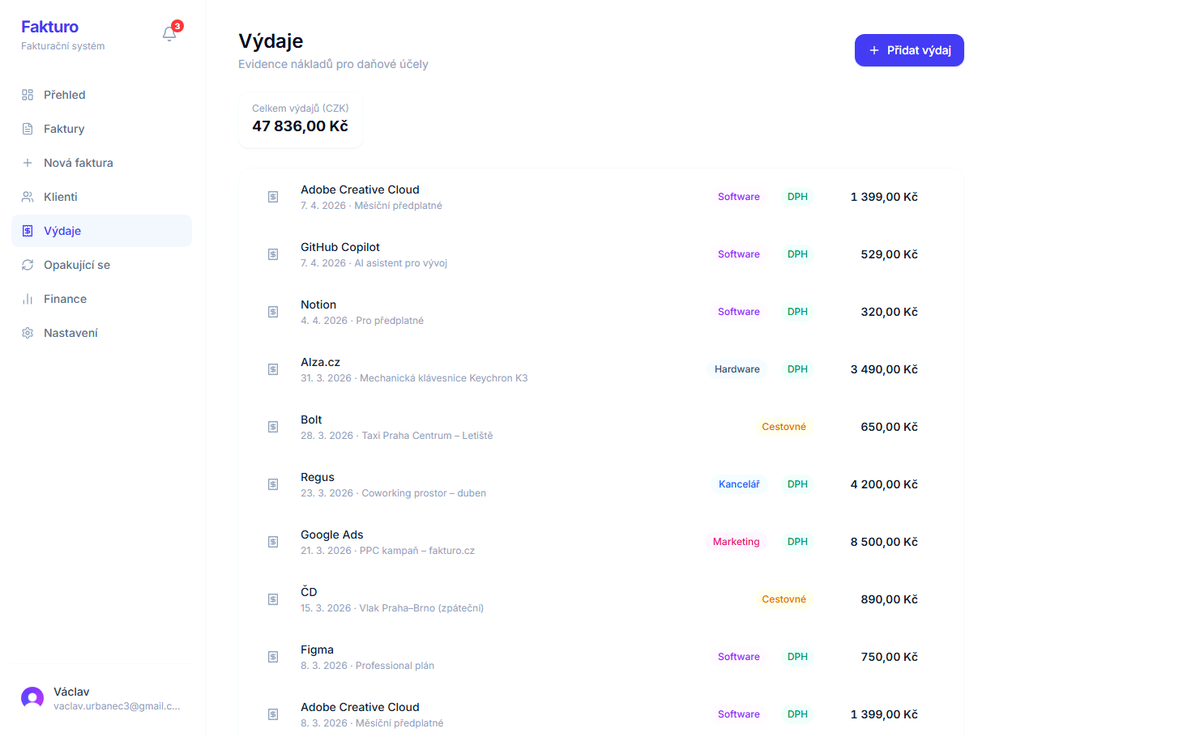
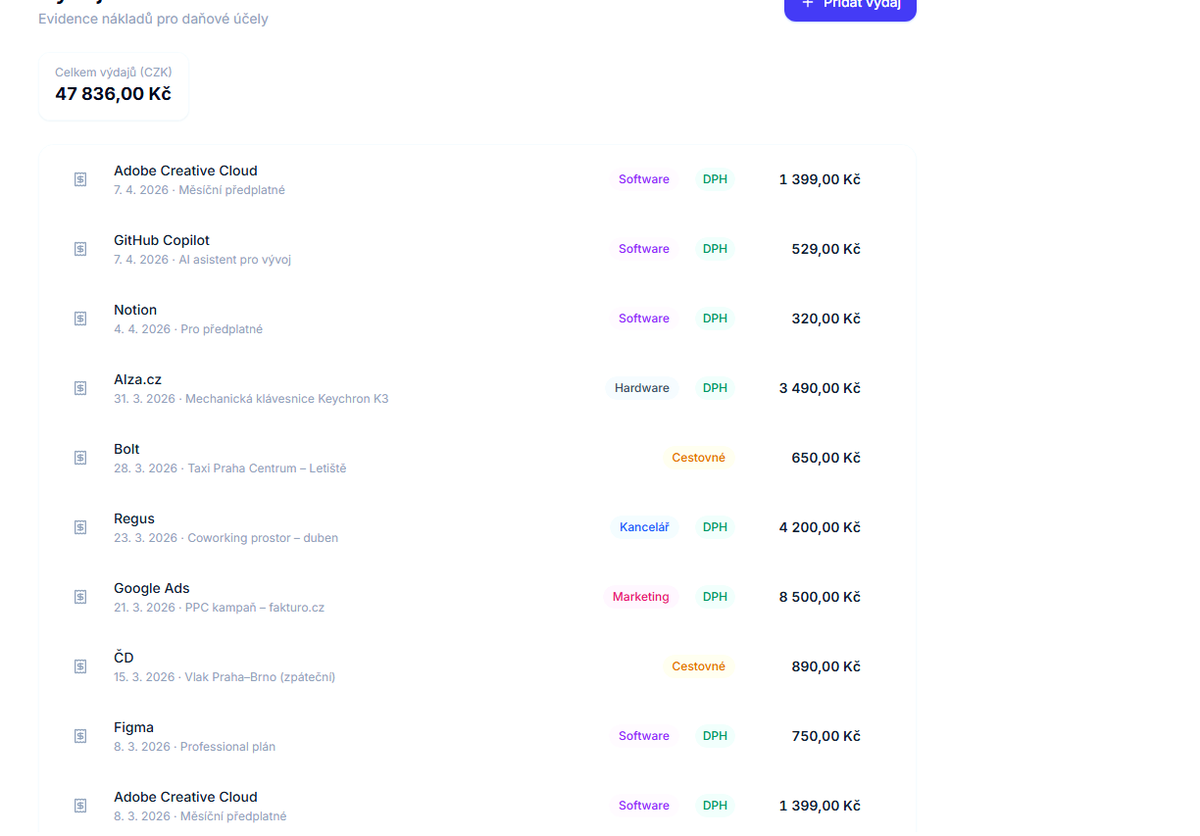
Add lightbox zoom + content-only screenshot crops
- Crop sidebar out of all screenshots (content area only, no sidebar)
- Add Lightbox component to FeatureShowcase — click any screenshot to zoom fullscreen, Escape/click outside to close
- Extract ScreenshotZoom component for hero + How it works sections
- Hover shows zoom cursor + "Klikni pro zvětšení" hint

diff --git a/src/components/FeatureShowcase.tsx b/src/components/FeatureShowcase.tsx
@@ -1,8 +1,8 @@
 'use client'
 
-import { useState } from 'react'
+import { useState, useEffect } from 'react'
 import Image from 'next/image'
-import { LayoutDashboard, FileText, BarChart2, Users, Receipt, RefreshCw, Settings } from 'lucide-react'
+import { LayoutDashboard, FileText, BarChart2, Users, Receipt, RefreshCw, Settings, X, ZoomIn } from 'lucide-react'
 import { cn } from '@/lib/utils'
 
 const features = [
@@ -42,7 +42,7 @@ const features = [
     id: 'expenses',
     icon: Receipt,
     title: 'Evidence výdajů',
-    desc: 'Zadejte výdaje kategorie podle kategorie — software, hardware, cestovné, marketing. Mějte přehled o tom, co vás stojí podnikání.',
+    desc: 'Zadejte výdaje podle kategorie — software, hardware, cestovné, marketing. Mějte přehled o tom, co vás stojí podnikání.',
     img: '/screenshots/expenses.png',
     color: 'amber',
   },
@@ -74,70 +74,151 @@ const colorMap: Record<string, { bg: string; text: string; ring: string; dot: st
   slate:  { bg: 'bg-slate-50',  text: 'text-slate-600',  ring: 'ring-slate-200',  dot: 'bg-slate-400'  },
 }
 
-export function FeatureShowcase() {
-  const [active, setActive] = useState('dashboard')
-  const current = features.find(f => f.id === active) ?? features[0]
-  const c = colorMap[current.color]
+function Lightbox({ src, title, onClose }: { src: string; title: string; onClose: () => void }) {
+  useEffect(() => {
+    const handler = (e: KeyboardEvent) => { if (e.key === 'Escape') onClose() }
+    document.addEventListener('keydown', handler)
+    document.body.style.overflow = 'hidden'
+    return () => {
+      document.removeEventListener('keydown', handler)
+      document.body.style.overflow = ''
+    }
+  }, [onClose])
 
   return (
-    <div className="grid lg:grid-cols-[340px_1fr] gap-8 items-start">
-      {/* Tab list */}
-      <div className="space-y-1">
-        {features.map(f => {
-          const isActive = f.id === active
-          const fc = colorMap[f.color]
-          const Icon = f.icon
-          return (
-            <button
-              key={f.id}
-              onClick={() => setActive(f.id)}
-              className={cn(
-                'w-full text-left flex items-center gap-3 px-4 py-3.5 rounded-xl transition-all',
-                isActive
-                  ? `${fc.bg} ring-1 ${fc.ring}`
-                  : 'hover:bg-slate-50 text-slate-500',
-              )}
-            >
-              <div className={cn('h-8 w-8 rounded-lg flex items-center justify-center shrink-0', isActive ? fc.bg : 'bg-slate-100')}>
-                <Icon className={cn('h-4 w-4', isActive ? fc.text : 'text-slate-400')} />
-              </div>
-              <div className="min-w-0">
-                <p className={cn('text-sm font-semibold leading-tight', isActive ? 'text-slate-900' : 'text-slate-600')}>{f.title}</p>
-                {isActive && (
-                  <p className="text-xs text-slate-400 mt-0.5 leading-relaxed line-clamp-2">{f.desc}</p>
-                )}
-              </div>
-              {isActive && <span className={cn('h-2 w-2 rounded-full shrink-0 ml-auto', fc.dot)} />}
-            </button>
-          )
-        })}
-      </div>
+    <div
+      className="fixed inset-0 z-[9999] flex items-center justify-center p-4 md:p-8"
+      onClick={onClose}
+    >
+      {/* Backdrop */}
+      <div className="absolute inset-0 bg-slate-900/80 backdrop-blur-sm" />
 
-      {/* Screenshot panel */}
-      <div className={cn(
-        'relative rounded-2xl overflow-hidden border shadow-2xl transition-all',
-        `ring-2 ${c.ring}`,
-      )}>
+      {/* Panel */}
+      <div
+        className="relative z-10 w-full max-w-6xl rounded-2xl overflow-hidden shadow-2xl ring-1 ring-white/10"
+        onClick={e => e.stopPropagation()}
+      >
         {/* Browser chrome */}
         <div className="bg-slate-800 flex items-center gap-2 px-4 py-2.5">
-          <span className="h-3 w-3 rounded-full bg-red-400" />
+          <button
+            onClick={onClose}
+            className="h-3 w-3 rounded-full bg-red-400 hover:bg-red-500 transition flex items-center justify-center"
+          />
           <span className="h-3 w-3 rounded-full bg-yellow-400" />
           <span className="h-3 w-3 rounded-full bg-emerald-400" />
           <div className="ml-3 flex-1 bg-slate-700 rounded-md h-5 flex items-center px-3">
             <span className="text-[10px] text-slate-400 font-mono">fakturo.vercel.app</span>
           </div>
+          <button onClick={onClose} className="ml-2 text-slate-400 hover:text-white transition">
+            <X className="h-4 w-4" />
+          </button>
         </div>
-        <div className="relative aspect-[1200/740] w-full">
+        <div className="relative w-full" style={{ aspectRatio: '1200/836' }}>
           <Image
-            key={current.img}
-            src={current.img}
-            alt={current.title}
+            src={src}
+            alt={title}
             fill
             className="object-cover object-top"
-            sizes="(max-width: 1024px) 100vw, 800px"
+            sizes="100vw"
+            priority
           />
         </div>
       </div>
     </div>
+  )
+}
+
+export function FeatureShowcase() {
+  const [active, setActive] = useState('dashboard')
+  const [lightbox, setLightbox] = useState<string | null>(null)
+  const current = features.find(f => f.id === active) ?? features[0]
+  const c = colorMap[current.color]
+
+  return (
+    <>
+      <div className="grid lg:grid-cols-[300px_1fr] gap-6 items-start">
+        {/* Tab list */}
+        <div className="space-y-1">
+          {features.map(f => {
+            const isActive = f.id === active
+            const fc = colorMap[f.color]
+            const Icon = f.icon
+            return (
+              <button
+                key={f.id}
+                onClick={() => setActive(f.id)}
+                className={cn(
+                  'w-full text-left flex items-center gap-3 px-4 py-3.5 rounded-xl transition-all',
+                  isActive
+                    ? `${fc.bg} ring-1 ${fc.ring}`
+                    : 'hover:bg-slate-50 text-slate-500',
+                )}
+              >
+                <div className={cn('h-8 w-8 rounded-lg flex items-center justify-center shrink-0', isActive ? fc.bg : 'bg-slate-100')}>
+                  <Icon className={cn('h-4 w-4', isActive ? fc.text : 'text-slate-400')} />
+                </div>
+                <div className="min-w-0">
+                  <p className={cn('text-sm font-semibold leading-tight', isActive ? 'text-slate-900' : 'text-slate-600')}>{f.title}</p>
+                  {isActive && (
+                    <p className="text-xs text-slate-400 mt-0.5 leading-relaxed">{f.desc}</p>
+                  )}
+                </div>
+                {isActive && <span className={cn('h-2 w-2 rounded-full shrink-0 ml-auto', fc.dot)} />}
+              </button>
+            )
+          })}
+        </div>
+
+        {/* Screenshot panel — click to zoom */}
+        <button
+          type="button"
+          onClick={() => setLightbox(current.img)}
+          className={cn(
+            'relative rounded-2xl overflow-hidden border shadow-2xl ring-2 transition-all group w-full text-left cursor-zoom-in',
+            c.ring,
+          )}
+        >
+          {/* Browser chrome */}
+          <div className="bg-slate-800 flex items-center gap-2 px-4 py-2.5">
+            <span className="h-3 w-3 rounded-full bg-red-400" />
+            <span className="h-3 w-3 rounded-full bg-yellow-400" />
+            <span className="h-3 w-3 rounded-full bg-emerald-400" />
+            <div className="ml-3 flex-1 bg-slate-700 rounded-md h-5 flex items-center px-3">
+              <span className="text-[10px] text-slate-400 font-mono">fakturo.vercel.app</span>
+            </div>
+            <div className="ml-2 flex items-center gap-1 text-slate-400 text-[10px] opacity-0 group-hover:opacity-100 transition">
+              <ZoomIn className="h-3 w-3" />
+              <span>Zvětšit</span>
+            </div>
+          </div>
+          <div className="relative w-full" style={{ aspectRatio: '1200/836' }}>
+            <Image
+              key={current.img}
+              src={current.img}
+              alt={current.title}
+              fill
+              className="object-cover object-top transition-transform duration-300 group-hover:scale-[1.01]"
+              sizes="(max-width: 1024px) 100vw, 800px"
+            />
+            {/* Zoom hint overlay */}
+            <div className="absolute inset-0 bg-slate-900/0 group-hover:bg-slate-900/5 transition-colors duration-200 flex items-end justify-end p-4">
+              <span className="bg-white/90 backdrop-blur-sm text-slate-700 text-xs font-medium px-3 py-1.5 rounded-full shadow opacity-0 group-hover:opacity-100 transition flex items-center gap-1.5">
+                <ZoomIn className="h-3 w-3" />
+                Klikni pro zvětšení
+              </span>
+            </div>
+          </div>
+        </button>
+      </div>
+
+      {/* Lightbox */}
+      {lightbox && (
+        <Lightbox
+          src={lightbox}
+          title={current.title}
+          onClose={() => setLightbox(null)}
+        />
+      )}
+    </>
   )
 }

diff --git a/src/components/ScreenshotZoom.tsx b/src/components/ScreenshotZoom.tsx
@@ -1,0 +1,88 @@
+'use client'
+
+import { useState, useEffect } from 'react'
+import Image from 'next/image'
+import { ZoomIn, X } from 'lucide-react'
+
+interface ScreenshotZoomProps {
+  src: string
+  alt: string
+  step?: string
+  aspectRatio?: string
+}
+
+function Lightbox({ src, alt, onClose }: { src: string; alt: string; onClose: () => void }) {
+  useEffect(() => {
+    const handler = (e: KeyboardEvent) => { if (e.key === 'Escape') onClose() }
+    document.addEventListener('keydown', handler)
+    document.body.style.overflow = 'hidden'
+    return () => {
+      document.removeEventListener('keydown', handler)
+      document.body.style.overflow = ''
+    }
+  }, [onClose])
+
+  return (
+    <div className="fixed inset-0 z-[9999] flex items-center justify-center p-4 md:p-8" onClick={onClose}>
+      <div className="absolute inset-0 bg-slate-900/80 backdrop-blur-sm" />
+      <div className="relative z-10 w-full max-w-6xl rounded-2xl overflow-hidden shadow-2xl ring-1 ring-white/10" onClick={e => e.stopPropagation()}>
+        <div className="bg-slate-800 flex items-center gap-2 px-4 py-2.5">
+          <button onClick={onClose} className="h-3 w-3 rounded-full bg-red-400 hover:bg-red-500 transition" />
+          <span className="h-3 w-3 rounded-full bg-yellow-400" />
+          <span className="h-3 w-3 rounded-full bg-emerald-400" />
+          <div className="ml-3 flex-1 bg-slate-700 rounded-md h-5 flex items-center px-3">
+            <span className="text-[10px] text-slate-400 font-mono">fakturo.vercel.app</span>
+          </div>
+          <button onClick={onClose} className="ml-2 text-slate-400 hover:text-white transition">
+            <X className="h-4 w-4" />
+          </button>
+        </div>
+        <div className="relative w-full" style={{ aspectRatio: '1200/836' }}>
+          <Image src={src} alt={alt} fill className="object-cover object-top" sizes="100vw" priority />
+        </div>
+      </div>
+    </div>
+  )
+}
+
+export function ScreenshotZoom({ src, alt, step, aspectRatio = '1200/836' }: ScreenshotZoomProps) {
+  const [open, setOpen] = useState(false)
+
+  return (
+    <>
+      <button
+        type="button"
+        onClick={() => setOpen(true)}
+        className="relative w-full rounded-2xl overflow-hidden shadow-lg ring-1 ring-slate-200 cursor-zoom-in group"
+      >
+        <div className="bg-slate-800 flex items-center gap-1.5 px-3 py-2 relative">
+          <span className="h-2.5 w-2.5 rounded-full bg-red-400" />
+          <span className="h-2.5 w-2.5 rounded-full bg-yellow-400" />
+          <span className="h-2.5 w-2.5 rounded-full bg-emerald-400" />
+          {step && (
+            <div className="absolute top-1.5 left-1/2 -translate-x-1/2 bg-indigo-600 text-white text-[10px] font-bold px-2.5 py-0.5 rounded-full">
+              {step}
+            </div>
+          )}
+        </div>
+        <div className="relative w-full" style={{ aspectRatio }}>
+          <Image
+            src={src}
+            alt={alt}
+            fill
+            className="object-cover object-top transition-transform duration-300 group-hover:scale-[1.02]"
+            sizes="(max-width: 768px) 100vw, 400px"
+          />
+          <div className="absolute inset-0 bg-slate-900/0 group-hover:bg-slate-900/5 transition-colors flex items-end justify-end p-3">
+            <span className="bg-white/90 backdrop-blur-sm text-slate-700 text-xs font-medium px-2.5 py-1 rounded-full shadow opacity-0 group-hover:opacity-100 transition flex items-center gap-1">
+              <ZoomIn className="h-3 w-3" />
+              Zvětšit
+            </span>
+          </div>
+        </div>
+      </button>
+
+      {open && <Lightbox src={src} alt={alt} onClose={() => setOpen(false)} />}
+    </>
+  )
+}

diff --git a/src/app/page.tsx b/src/app/page.tsx
@@ -7,6 +7,7 @@ import {
   TrendingUp, ArrowRight, Sparkles,
 } from 'lucide-react'
 import { FeatureShowcase } from '@/components/FeatureShowcase'
+import { ScreenshotZoom } from '@/components/ScreenshotZoom'
 
 export default async function HomePage() {
   const { userId } = await auth()
@@ -62,27 +63,8 @@ export default async function HomePage() {
           <p className="mt-4 text-sm text-slate-400">Zdarma 30 faktur/měsíc · Pro neomezeně za 500 Kč/měs.</p>
         </div>
 
-        {/* Hero screenshot */}
-        <div className="relative rounded-2xl overflow-hidden shadow-2xl ring-1 ring-slate-200">
-          <div className="bg-slate-800 flex items-center gap-2 px-4 py-2.5">
-            <span className="h-3 w-3 rounded-full bg-red-400" />
-            <span className="h-3 w-3 rounded-full bg-yellow-400" />
-            <span className="h-3 w-3 rounded-full bg-emerald-400" />
-            <div className="ml-3 flex-1 bg-slate-700 rounded-md h-5 flex items-center px-3">
-              <span className="text-[10px] text-slate-400 font-mono">fakturo.vercel.app/dashboard</span>
-            </div>
-          </div>
-          <div className="relative aspect-[1200/740]">
-            <Image
-              src="/screenshots/dashboard.png"
-              alt="Fakturo dashboard"
-              fill
-              className="object-cover object-top"
-              priority
-              sizes="(max-width: 768px) 100vw, 600px"
-            />
-          </div>
-        </div>
+        {/* Hero screenshot — clickable */}
+        <ScreenshotZoom src="/screenshots/dashboard.png" alt="Fakturo dashboard" aspectRatio="1200/836" />
       </section>
 
       {/* Social proof */}
@@ -162,16 +144,8 @@ export default async function HomePage() {
             },
           ].map(({ step, title, desc, img }) => (
             <div key={step} className="flex flex-col items-center text-center">
-              <div className="relative w-full rounded-2xl overflow-hidden shadow-lg mb-6 ring-1 ring-slate-200">
-                <div className="bg-slate-800 flex items-center gap-1.5 px-3 py-2">
-                  <span className="h-2.5 w-2.5 rounded-full bg-red-400" />
-                  <span className="h-2.5 w-2.5 rounded-full bg-yellow-400" />
-                  <span className="h-2.5 w-2.5 rounded-full bg-emerald-400" />
-                  <div className="absolute top-1.5 left-1/2 -translate-x-1/2 bg-indigo-600 text-white text-[10px] font-bold px-2.5 py-0.5 rounded-full">{step}</div>
-                </div>
-                <div className="relative aspect-[1200/740]">
-                  <Image src={img} alt={title} fill className="object-cover object-top" sizes="400px" />
-                </div>
+              <div className="w-full mb-6">
+                <ScreenshotZoom src={img} alt={title} step={step} />
               </div>
               <h3 className="font-semibold text-slate-800 text-lg mb-2">{title}</h3>
               <p className="text-sm text-slate-400 max-w-xs">{desc}</p>
